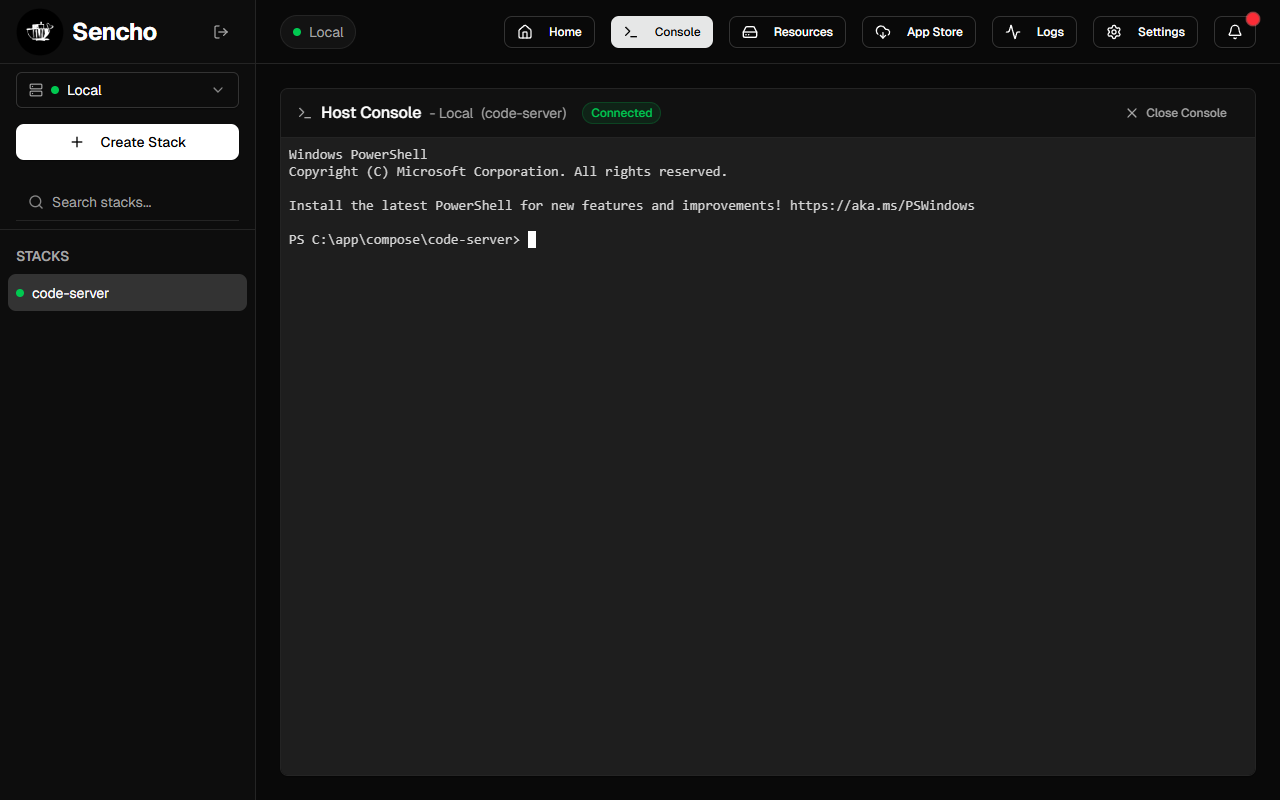
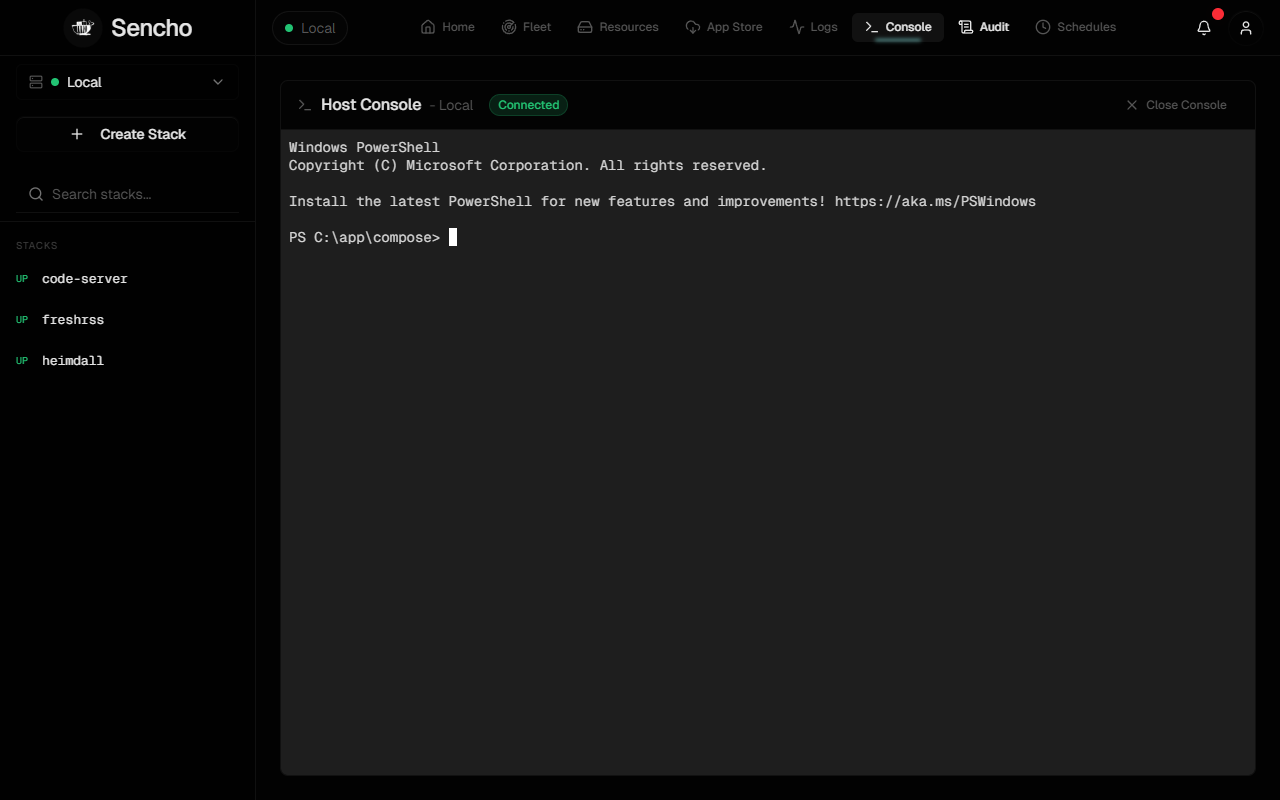
feat(host-console): gate Host Console behind Admiral tier
Move the Host Console from the Community (free) tier to Admiral,
enforcing the gate at every layer: UI nav visibility, AdmiralGate
wrapper, POST /api/system/console-token endpoint, and the WebSocket
upgrade handler for /api/system/host-console.

diff --git a/frontend/src/components/EditorLayout.tsx b/frontend/src/components/EditorLayout.tsx
@@ -7,6 +7,7 @@ import ErrorBoundary from './ErrorBoundary';
 import HomeDashboard from './HomeDashboard';
 import BashExecModal from './BashExecModal';
 import HostConsole from './HostConsole';
+import { AdmiralGate } from './AdmiralGate';
 import ResourcesView from './ResourcesView';
 import { Button } from './ui/button';
 import { Input } from './ui/input';
@@ -161,13 +162,13 @@ export default function EditorLayout() {
       { value: 'dashboard', label: 'Home', icon: Home },
       { value: 'fleet', label: 'Fleet', icon: Radar },
     ];
-    if (isAdmin) items.push({ value: 'host-console', label: 'Console', icon: Terminal });
     items.push(
       { value: 'resources', label: 'Resources', icon: HardDrive },
       { value: 'templates', label: 'App Store', icon: CloudDownload },
       { value: 'global-observability', label: 'Logs', icon: Activity },
     );
     if (isPro && license?.variant === 'team') {
+      if (isAdmin) items.push({ value: 'host-console', label: 'Console', icon: Terminal });
       if (can('system:audit')) items.push({ value: 'audit-log', label: 'Audit', icon: ScrollText });
       if (isAdmin) items.push({ value: 'scheduled-ops', label: 'Schedules', icon: Clock });
     }
@@ -1479,7 +1480,9 @@ export default function EditorLayout() {
           ) : activeView === 'resources' ? (
             <ResourcesView />
           ) : activeView === 'host-console' ? (
-            <HostConsole stackName={selectedFile} onClose={() => setActiveView(selectedFile ? 'editor' : 'dashboard')} />
+            <AdmiralGate featureName="Host Console">
+              <HostConsole stackName={selectedFile} onClose={() => setActiveView(selectedFile ? 'editor' : 'dashboard')} />
+            </AdmiralGate>
           ) : !isLoading && selectedFile && activeView === 'editor' ? (
             <ErrorBoundary>
               <div className="grid grid-cols-1 lg:grid-cols-2 gap-6 items-stretch">

diff --git a/backend/src/index.ts b/backend/src/index.ts
@@ -2316,6 +2316,13 @@ server.on('upgrade', async (req, socket, head) => {
         socket.destroy();
         return;
       }
+      // Admiral license gate — host console requires Pro (team variant)
+      const ls = LicenseService.getInstance();
+      if (ls.getTier() !== 'pro' || ls.getVariant() !== 'team') {
+        socket.write('HTTP/1.1 403 Forbidden\r\n\r\n');
+        socket.destroy();
+        return;
+      }
       const hostConsoleWss = new WebSocketServer({ noServer: true });
       hostConsoleWss.handleUpgrade(req, socket, head, (ws) => {
         hostConsoleWss.close();
@@ -3362,6 +3369,7 @@ app.post('/api/system/console-token', authMiddleware, (req: Request, res: Respon
     return;
   }
   if (!requireAdmin(req, res)) return;
+  if (!requireAdmiral(req, res)) return;
   try {
     const settings = DatabaseService.getInstance().getGlobalSettings();
     const jwtSecret = settings.auth_jwt_secret;

diff --git a/CHANGELOG.md b/CHANGELOG.md
@@ -41,6 +41,10 @@ and this project adheres to [Semantic Versioning](https://semver.org/spec/v2.0.0
 
 ## [Unreleased]
 
+### Changed
+
+* **host-console:** moved Host Console from Community tier to Admiral tier. The interactive host terminal now requires a Sencho Admiral license — enforced in the UI (nav item hidden, AdmiralGate upgrade prompt), the REST API (`POST /api/system/console-token` returns 403), and the WebSocket upgrade handler (`/api/system/host-console` rejects connections). Community and Skipper users see an upgrade prompt.
+
 ### Security
 
 * **docker:** upgrade base image from `node:20-alpine` to `node:22-alpine` (Node 22.22.2 on Alpine 3.23.3) to remediate 31 CVEs (1 Critical, multiple High/Medium/Low) flagged by Docker Scout against the previous `node:20-alpine` base.
